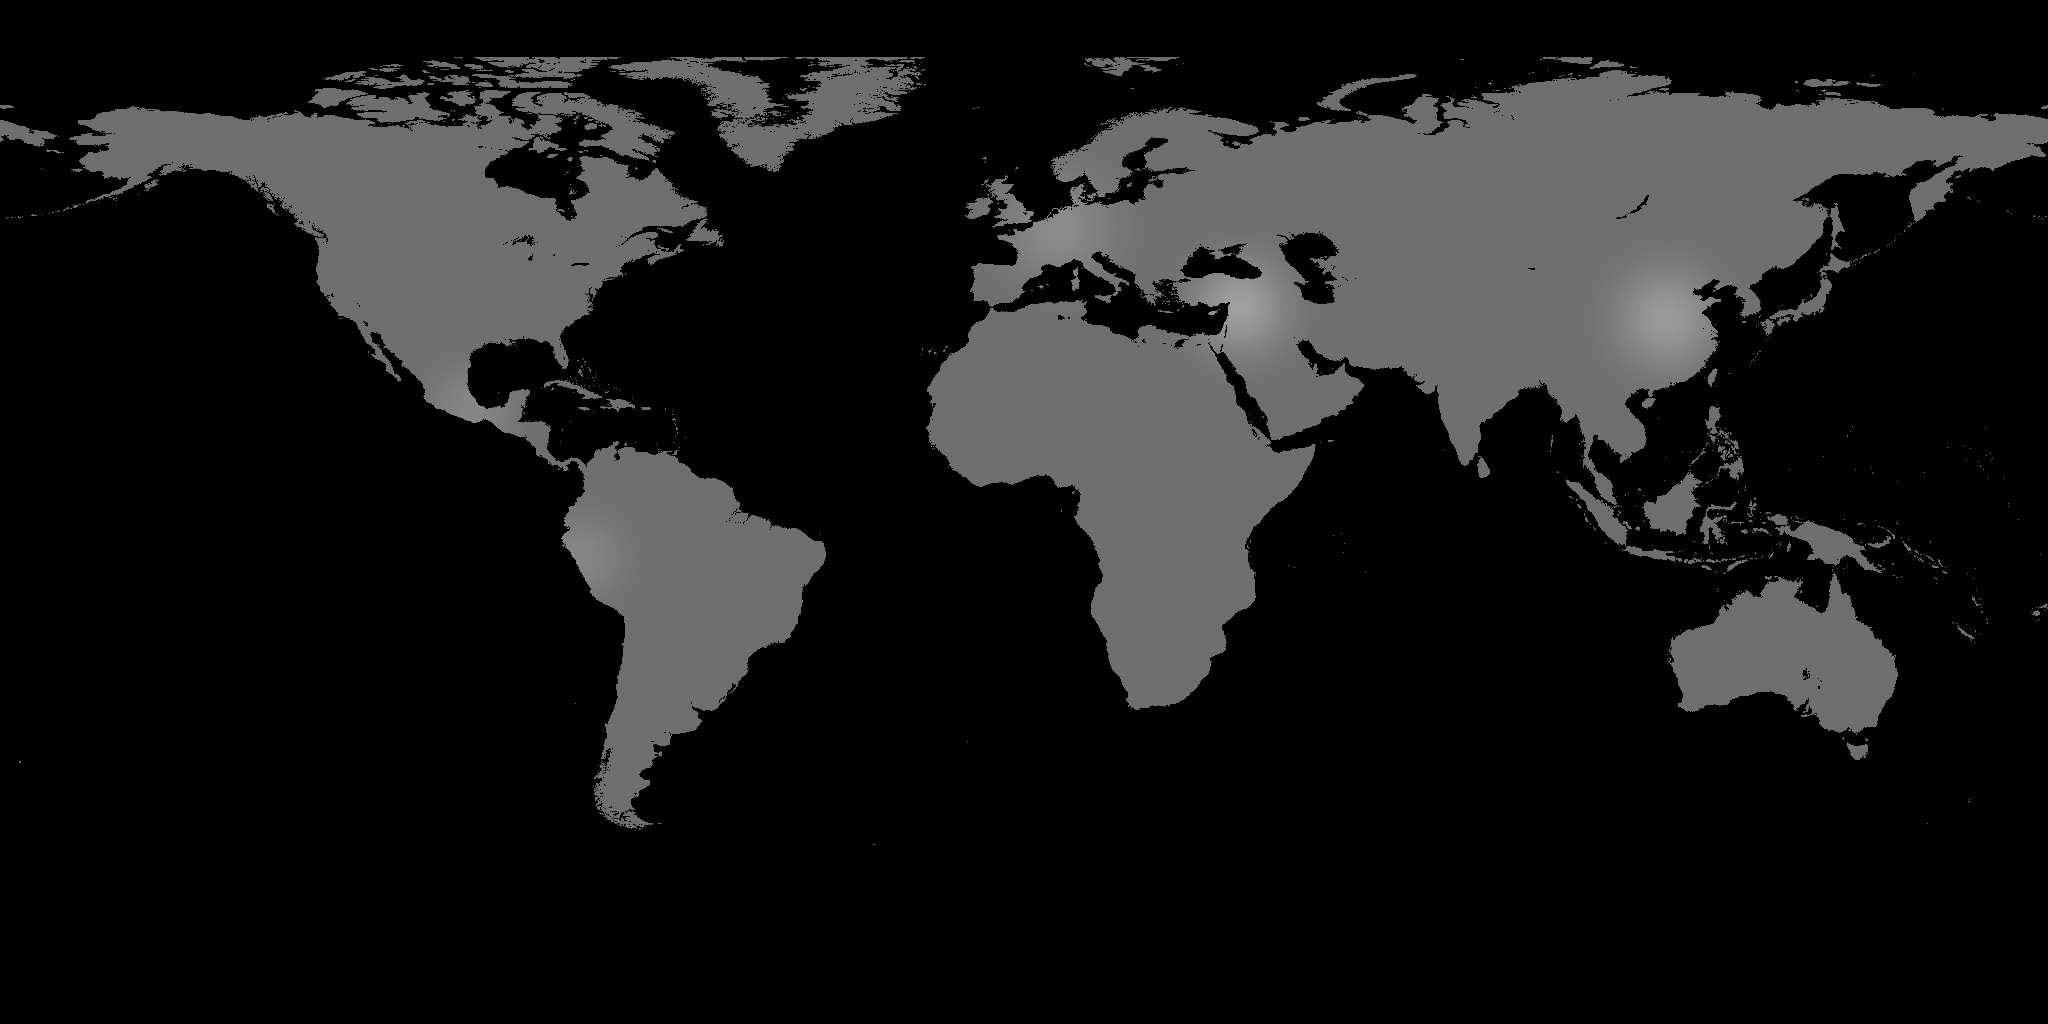
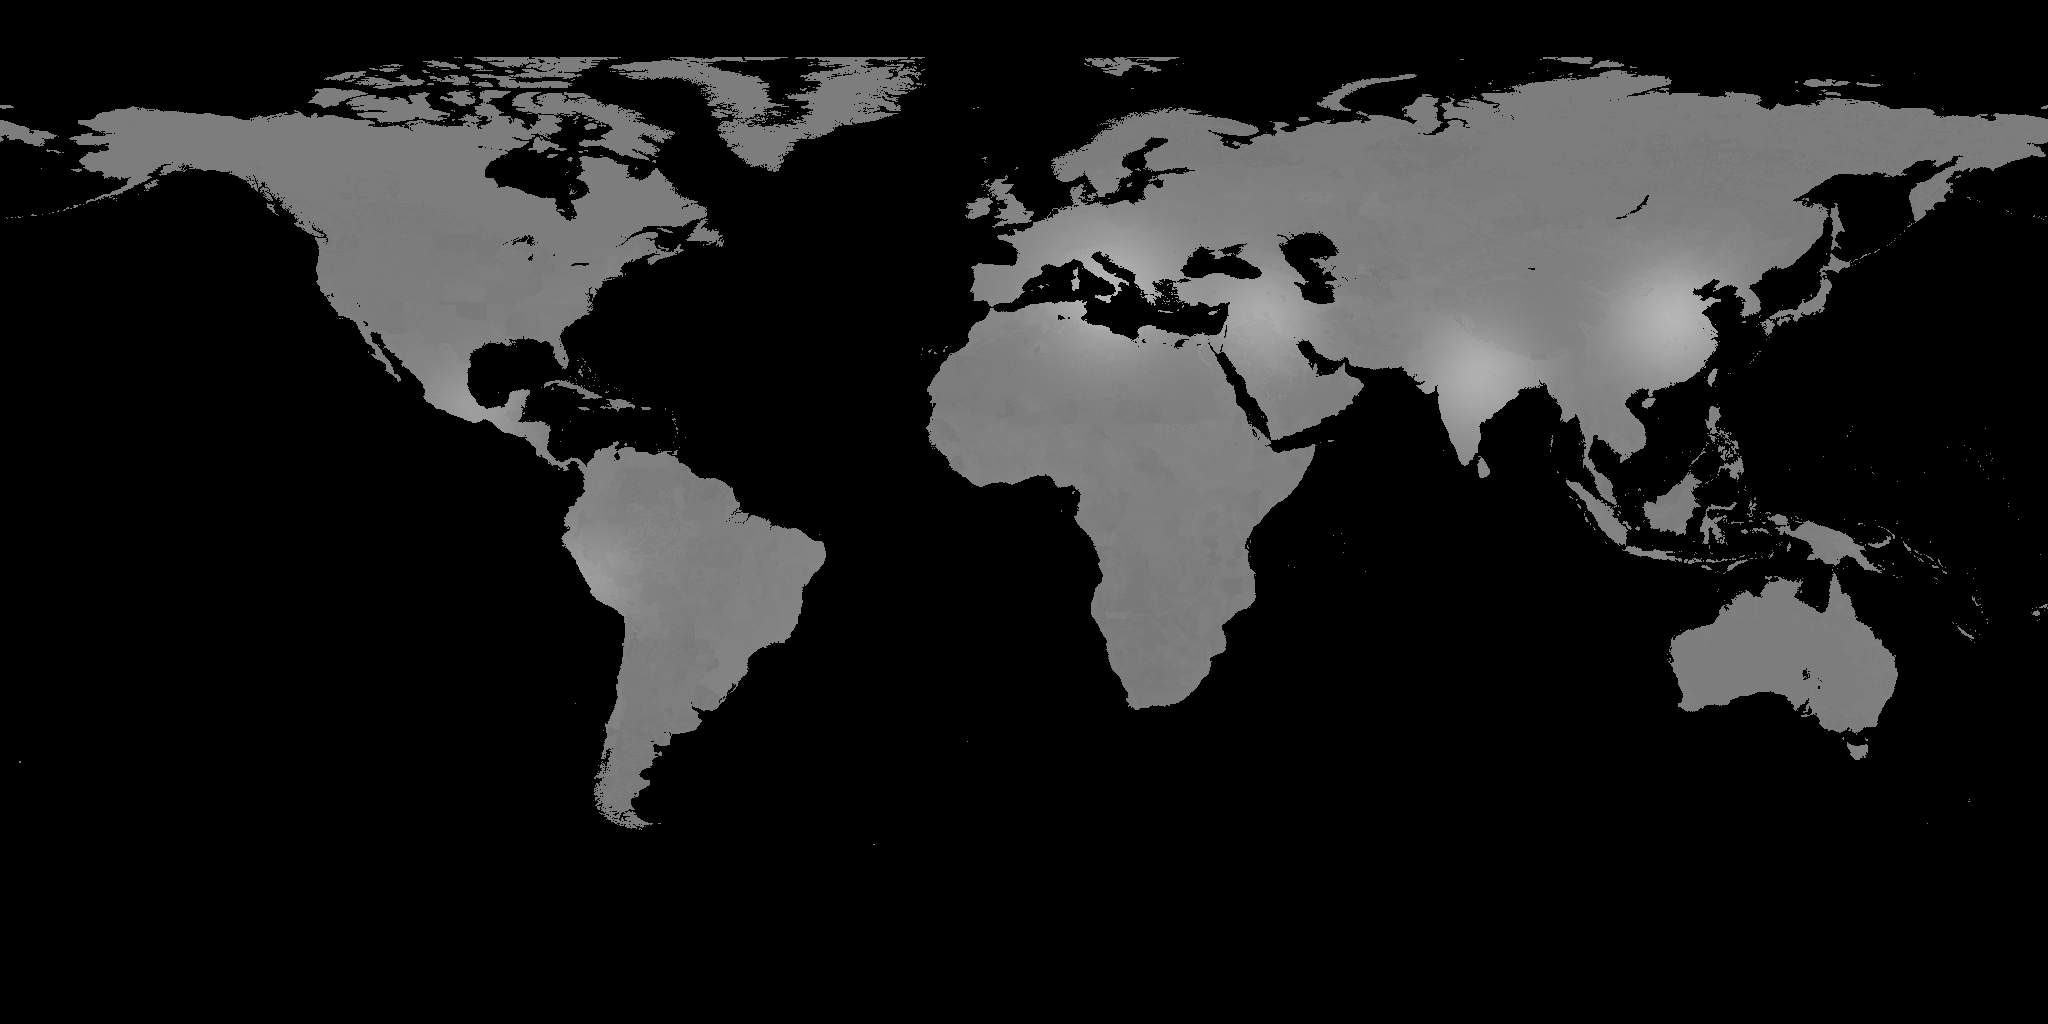
feat(cartography): implement data-driven technology scaling and orographic tribal sovereignty

diff --git a/src/main/java/org/ether/society/data/HistoricalMapGenerator.java b/src/main/java/org/ether/society/data/HistoricalMapGenerator.java
@@ -2499,6 +2499,11 @@ public class HistoricalMapGenerator {
             sovSeeds.add(new OrographicGlottologPropagator.CulturalSeed(ec[0], ec[1], (int) ec[2], ec[3] / 18.0, "Polity"));
         }
         BufferedImage sovImg = OrographicGlottologPropagator.propagateCulturalSeeds(sovSeeds, WIDTH, HEIGHT, mask, 38.0f);
+
+        // Pre-generate orographic tribal background for stateless frontiers
+        List<OrographicGlottologPropagator.CulturalSeed> tribalSeeds = CliopatriaPolityVectorReader.getTribalDomainSeeds(year);
+        BufferedImage tribalBg = OrographicGlottologPropagator.propagateCulturalSeeds(tribalSeeds, WIDTH, HEIGHT, mask);
+
         // Apply hominin occupancy and assign authentic regional tribal domains outside imperial reach
         for (int y = 0; y < HEIGHT; y++) {
             double lat = 90.0 - (y + 0.5) / HEIGHT * 180.0;
@@ -2512,7 +2517,7 @@ public class HistoricalMapGenerator {
                 } else {
                     int currentRgb = sovImg.getRGB(x, y) & 0xFFFFFF;
                     if (currentRgb == 0x374151 || currentRgb == 0x000000) {
-                        int tribalColor = CliopatriaPolityVectorReader.getTribalDomainColor(lon, lat, year);
+                        int tribalColor = (tribalBg != null) ? tribalBg.getRGB(x, y) : 0x374151;
                         sovImg.setRGB(x, y, tribalColor);
                     }
                 }
@@ -2988,15 +2993,19 @@ public class HistoricalMapGenerator {
             }
         }
 
+        // 2. Ingest empirical HYDE 3.4 population density grid to derive urban agglomeration scaling (Boserup-Kremer effect)
+        BufferedImage densityGrid = (year >= -10000L && year <= 2024L) ? Hyde34GridReader.loadForYear(year) : null;
+
         double baseTech = 25.0;
         if (year <= -10000L) baseTech = 35.0;
         else if (year <= -7000L) baseTech = 55.0;
-        else if (year <= -4500L) baseTech = 80.0;
-        else if (year <= 0L) baseTech = 110.0;
-        else if (year <= 1400L) baseTech = 140.0;
+        else if (year <= -4500L) baseTech = 75.0;
+        else if (year <= 0L) baseTech = 95.0;
+        else if (year <= 1000L) baseTech = 120.0;
+        else if (year <= 1500L) baseTech = 150.0;
         else if (year <= 1800L) baseTech = 180.0;
-        else if (year <= 1950L) baseTech = 220.0;
-        else baseTech = 245.0;
+        else if (year <= 1950L) baseTech = 215.0;
+        else baseTech = 240.0;
 
         for (int y = 0; y < HEIGHT; y++) {
             double lat = 90.0 - (y + 0.5) / HEIGHT * 180.0;
@@ -3020,29 +3029,42 @@ public class HistoricalMapGenerator {
                 }
 
                 double tech = baseTech;
-                double fertCrescent = Math.exp(-(Math.pow(lat - 36.0, 2) + Math.pow(lon - 38.0, 2)) / 70.0);
-                double yellowRiver = Math.exp(-(Math.pow(lat - 34.0, 2) + Math.pow(lon - 113.0, 2)) / 80.0);
-                double yangtze = Math.exp(-(Math.pow(lat - 30.0, 2) + Math.pow(lon - 120.0, 2)) / 80.0);
-                double balkans = Math.exp(-(Math.pow(lat - 44.0, 2) + Math.pow(lon - 21.0, 2)) / 70.0);
-                double indus = Math.exp(-(Math.pow(lat - 29.0, 2) + Math.pow(lon - 68.0, 2)) / 70.0);
-                double meso = Math.exp(-(Math.pow(lat - 18.0, 2) + Math.pow(lon - (-97.0), 2)) / 60.0);
-                double andes = Math.exp(-(Math.pow(lat - (-8.0), 2) + Math.pow(lon - (-78.0), 2)) / 60.0);
+
+                // Boserup-Kremer urban agglomeration scaling derived from empirical HYDE 3.4 density
+                if (densityGrid != null) {
+                    int densSample = densityGrid.getRGB(x, y) & 0xFF;
+                    if (densSample > 0) {
+                        double urbanBonus = 42.0 * Math.log(1.0 + densSample * 2.0) / Math.log(512.0);
+                        tech += urbanBonus;
+                    }
+                }
+
+                // Authentic historical innovation hearths & metallurgical/agricultural cradle intensity
+                double medCore = Math.exp(-(Math.pow(lat - 38.0, 2) + Math.pow(lon - 15.0, 2)) / 140.0); // Greco-Roman Mediterranean & Alexandria
+                double fertCrescent = Math.exp(-(Math.pow(lat - 34.0, 2) + Math.pow(lon - 42.0, 2)) / 90.0);  // Fertile Crescent & Mesopotamia
+                double chinaCore = Math.exp(-(Math.pow(lat - 34.0, 2) + Math.pow(lon - 114.0, 2)) / 110.0); // Yellow River & Yangtze Sinic Core
+                double indiaCore = Math.exp(-(Math.pow(lat - 24.0, 2) + Math.pow(lon - 80.0, 2)) / 100.0);  // Indo-Gangetic & Deccan (Wootz Steel & Maurya)
+                double mesoCore = Math.exp(-(Math.pow(lat - 18.0, 2) + Math.pow(lon - (-96.0), 2)) / 70.0); // Mesoamerican Civilizations
+                double andesCore = Math.exp(-(Math.pow(lat - (-11.0), 2) + Math.pow(lon - (-76.0), 2)) / 70.0); // Central Andean Civilizations
 
                 if (year <= -4500L) {
-                    // Early agricultural / metallurgy emergence
-                    tech += (fertCrescent * 70.0 + yellowRiver * 60.0 + yangtze * 60.0 + balkans * 55.0 + indus * 50.0 + meso * 30.0 + andes * 30.0);
-                } else if (year <= 0) {
-                    double europe = Math.exp(-(Math.pow(lat - 50.0, 2) + Math.pow(lon - 6.0, 2)) / 100.0);
-                    tech += (fertCrescent * 50.0 + yellowRiver * 45.0 + europe * 30.0 + meso * 25.0 + andes * 25.0);
-                } else if (year <= 1400) {
-                    double europe = Math.exp(-(Math.pow(lat - 50.0, 2) + Math.pow(lon - 6.0, 2)) / 100.0);
-                    tech += (yellowRiver * 65.0 + fertCrescent * 50.0 + europe * 40.0 + meso * 30.0 + andes * 30.0);
-                } else if (year <= 1850) {
-                    double europe = Math.exp(-(Math.pow(lat - 50.0, 2) + Math.pow(lon - 6.0, 2)) / 100.0);
-                    tech += (europe * 70.0 + yellowRiver * 45.0);
+                    // Early agricultural / metallurgy emergence (Fertile Crescent, Vinča, Mehrgarh, Yangshao, Caral)
+                    tech += (fertCrescent * 55.0 + chinaCore * 45.0 + indiaCore * 40.0 + mesoCore * 25.0 + andesCore * 25.0);
+                } else if (year <= 500L) {
+                    // Classical Antiquity & Axial Age (Rome, Alexandria, Chang'an, Pataliputra, Ctesiphon)
+                    tech += (medCore * 50.0 + fertCrescent * 40.0 + chinaCore * 48.0 + indiaCore * 42.0 + mesoCore * 25.0 + andesCore * 25.0);
+                } else if (year <= 1500L) {
+                    // Post-Classical & Medieval (Song Dynasty, Islamic Golden Age, Medieval Europe, Chola)
+                    double europeCore = Math.exp(-(Math.pow(lat - 48.0, 2) + Math.pow(lon - 8.0, 2)) / 100.0);
+                    tech += (chinaCore * 55.0 + fertCrescent * 45.0 + indiaCore * 40.0 + europeCore * 40.0 + medCore * 35.0 + mesoCore * 25.0 + andesCore * 25.0);
+                } else if (year <= 1850L) {
+                    // Early Modern & First Industrial Revolution (Western Europe Atlantic Arc & East Asia)
+                    double europeCore = Math.exp(-(Math.pow(lat - 51.0, 2) + Math.pow(lon - 4.0, 2)) / 80.0);
+                    tech += (europeCore * 65.0 + chinaCore * 35.0 + medCore * 30.0 + indiaCore * 25.0);
                 } else {
-                    double europe = Math.exp(-(Math.pow(lat - 50.0, 2) + Math.pow(lon - 6.0, 2)) / 100.0);
-                    tech += (europe * 30.0 + yellowRiver * 30.0);
+                    // Modern Global Diffusion
+                    double europeCore = Math.exp(-(Math.pow(lat - 50.0, 2) + Math.pow(lon - 6.0, 2)) / 90.0);
+                    tech += (europeCore * 25.0 + chinaCore * 25.0);
                 }
 
                 int gray = Math.clamp((int) (tech * occWeight), 0, 255);

diff --git a/src/main/java/org/ether/society/data/CliopatriaPolityVectorReader.java b/src/main/java/org/ether/society/data/CliopatriaPolityVectorReader.java
@@ -77,7 +77,11 @@ public class CliopatriaPolityVectorReader {
         }
         g.dispose();
 
-        // Apply elevation coastline mask and assign authentic regional tribal domains to stateless/unclaimed land
+        // 2. Pre-generate orographic tribal domain background over NOAA ETOPO digital elevation model
+        List<OrographicGlottologPropagator.CulturalSeed> tribalSeeds = getTribalDomainSeeds(targetYear);
+        BufferedImage tribalBg = OrographicGlottologPropagator.propagateCulturalSeeds(tribalSeeds, width, height, elevationMask);
+
+        // Apply elevation coastline mask and assign authentic orographic tribal domains to stateless/unclaimed land
         if (elevationMask != null) {
             for (int y = 0; y < height; y++) {
                 double lat = 90.0 - (y + 0.5) / height * 180.0;
@@ -94,8 +98,8 @@ public class CliopatriaPolityVectorReader {
                         if (occWeight <= 0.001 && targetYear < 1900L) {
                             img.setRGB(x, y, 0x000000);
                         } else {
-                            // Unclaimed / stateless inhabited frontier -> assign authentic regional tribal basin color
-                            int tribalColor = getTribalDomainColor(lon, lat, targetYear);
+                            // Unclaimed / stateless inhabited frontier -> assign authentic orographic tribal domain
+                            int tribalColor = (tribalBg != null) ? tribalBg.getRGB(x, y) : 0x374151;
                             img.setRGB(x, y, tribalColor);
                         }
                     }
@@ -109,13 +113,50 @@ public class CliopatriaPolityVectorReader {
     }
 
     /**
+     * Builds authentic regional tribal / clan domain seeds for orographic cost-distance propagation.
+     */
+    public static List<OrographicGlottologPropagator.CulturalSeed> getTribalDomainSeeds(long year) {
+        List<OrographicGlottologPropagator.CulturalSeed> seeds = new ArrayList<>();
+        // Americas
+        seeds.add(new OrographicGlottologPropagator.CulturalSeed(-60.0, -3.0, 0x2E7D32, 1.4, "Amazonian Indigenous Nations"));
+        seeds.add(new OrographicGlottologPropagator.CulturalSeed(-62.0, -25.0, 0x5D4037, 1.3, "Gran Chaco & Pampas"));
+        seeds.add(new OrographicGlottologPropagator.CulturalSeed(-68.0, 6.0, 0x33691E, 1.2, "Orinoco & Caribbean Tribes"));
+        seeds.add(new OrographicGlottologPropagator.CulturalSeed(-82.0, 38.0, 0x388E3C, 1.4, "North American Eastern Woodlands"));
+        seeds.add(new OrographicGlottologPropagator.CulturalSeed(-100.0, 42.0, 0xC27803, 1.5, "North American Great Plains"));
+        seeds.add(new OrographicGlottologPropagator.CulturalSeed(-122.0, 48.0, 0x00796B, 1.3, "Pacific Northwest & Salish"));
+        seeds.add(new OrographicGlottologPropagator.CulturalSeed(-110.0, 32.0, 0xB45309, 1.3, "Southwest / Aridoamerica"));
+        seeds.add(new OrographicGlottologPropagator.CulturalSeed(-105.0, 62.0, 0x455A64, 1.5, "Subarctic Dene & Athabaskan"));
+        seeds.add(new OrographicGlottologPropagator.CulturalSeed(-70.0, 70.0, 0x607D8B, 1.6, "Arctic Inuit / Thule Domain"));
+
+        // Africa
+        seeds.add(new OrographicGlottologPropagator.CulturalSeed(0.0, 10.0, 0xB45309, 1.4, "West African Savanna & Voltaic"));
+        seeds.add(new OrographicGlottologPropagator.CulturalSeed(22.0, -1.0, 0x1B5E20, 1.5, "Congo Equatorial Forest Clans"));
+        seeds.add(new OrographicGlottologPropagator.CulturalSeed(38.0, 4.0, 0xC2410C, 1.3, "East African Pastoralists"));
+        seeds.add(new OrographicGlottologPropagator.CulturalSeed(24.0, -28.0, 0xA16207, 1.4, "Southern African Khoisan / San"));
+        seeds.add(new OrographicGlottologPropagator.CulturalSeed(47.0, -19.0, 0x4E342E, 1.2, "Malagasy Indigenous Domain"));
+
+        // Eurasia & Siberia
+        seeds.add(new OrographicGlottologPropagator.CulturalSeed(10.0, 56.0, 0x4D7C0F, 1.3, "Northern European Germanic & Celtic Forest Clans"));
+        seeds.add(new OrographicGlottologPropagator.CulturalSeed(30.0, 64.0, 0x0F766E, 1.4, "Boreal Finno-Ugric & Samoyed"));
+        seeds.add(new OrographicGlottologPropagator.CulturalSeed(65.0, 48.0, 0x9A3412, 1.6, "Eurasian Steppe Nomads"));
+        seeds.add(new OrographicGlottologPropagator.CulturalSeed(100.0, 58.0, 0x37474F, 1.5, "Siberian Taiga & Evenki"));
+        seeds.add(new OrographicGlottologPropagator.CulturalSeed(150.0, 65.0, 0x546E7A, 1.5, "Chukchi & Koryak Paleo-Siberian"));
+        seeds.add(new OrographicGlottologPropagator.CulturalSeed(100.0, 20.0, 0x4B6B40, 1.3, "Southeast Asian Zomia Highlands"));
+
+        // Oceania & Australasia
+        seeds.add(new OrographicGlottologPropagator.CulturalSeed(134.0, -25.0, 0xA04000, 1.6, "Australian Aboriginal Nations"));
+        seeds.add(new OrographicGlottologPropagator.CulturalSeed(140.0, -5.0, 0x15803D, 1.3, "Papuan Highland Clans"));
+        seeds.add(new OrographicGlottologPropagator.CulturalSeed(170.0, -15.0, 0x0284C7, 1.5, "Polynesian Oceanic Domain"));
+        return seeds;
+    }
+
+    /**
      * Determines the authentic regional tribal / clan domain color for stateless inhabited lands.
      */
     public static int getTribalDomainColor(double lon, double lat, long year) {
         if (lat < -60.0) {
             return 0x0284C7; // Antarctic Treaty / International Scientific Research Domain (#0284C7 Sky Blue)
         }
-
         record TribalDomain(double lon, double lat, int color) {}
         TribalDomain[] domains = {
             // Americas
